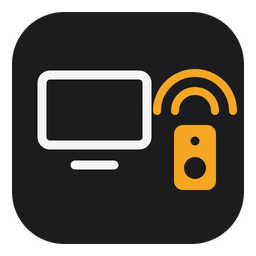
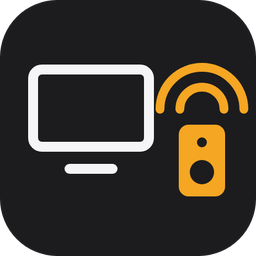
Prepare for the HACS default store (#3)
- Add integration categories to the manifest (HACS warning)
- Trim the empty margin from the brand icons, per Home Assistant's
  brand image guidelines
- Drop the obsolete render_readme key from hacs.json
- Run validation daily, as the HACS action docs suggest
- README: badges, my.home-assistant.io buttons to open the repository
  in HACS and to start the setup
- Issue templates for bug reports and feature requests

Claude-Session: https://claude.ai/code/session_01AuxZxAMfiAdUMG3TA64r37

diff --git a/README.md b/README.md
@@ -1,6 +1,9 @@
 # Apple TV Audio Output
 
-[![hacs_badge](https://img.shields.io/badge/HACS-Custom-41BDF5.svg)](https://github.com/hacs/integration)
+[![HACS](https://img.shields.io/badge/HACS-Custom-41BDF5.svg)](https://hacs.xyz)
+[![Release](https://img.shields.io/github/v/release/Emilhaurum/ha-apple-tv-output)](https://github.com/Emilhaurum/ha-apple-tv-output/releases)
+[![Validate](https://github.com/Emilhaurum/ha-apple-tv-output/actions/workflows/validate.yml/badge.svg)](https://github.com/Emilhaurum/ha-apple-tv-output/actions/workflows/validate.yml)
+[![License](https://img.shields.io/github/license/Emilhaurum/ha-apple-tv-output)](LICENSE)
 
 A Home Assistant integration that sends an Apple TV's sound to AirPlay 2 speakers. It is tested with
 an Apple TV 4K and Sonos speakers on Home Assistant 2026.11.
@@ -23,9 +26,12 @@ an automation can pick the speaker every time the Apple TV wakes up.
 
 ### HACS
 
-1. In HACS, open the menu and choose **Custom repositories**.
-2. Add `https://github.com/Emilhaurum/ha-apple-tv-output` with the type **Integration**.
-3. Install **Apple TV Audio Output** and restart Home Assistant.
+[![Open your Home Assistant instance and open this repository in HACS.](https://my.home-assistant.io/badges/hacs_repository.svg)](https://my.home-assistant.io/redirect/hacs_repository/?owner=Emilhaurum&repository=ha-apple-tv-output&category=integration)
+
+1. Select the button above to open the repository in HACS, or search for **Apple TV Audio Output**
+   in HACS. If HACS does not find it, open the menu, choose **Custom repositories**, and add
+   `https://github.com/Emilhaurum/ha-apple-tv-output` with the type **Integration**.
+2. Select **Download**, and restart Home Assistant.
 
 ### Manual
 
@@ -34,8 +40,13 @@ configuration and restart Home Assistant.
 
 ### Set up
 
-Go to **Settings → Devices & services → Add integration** and add **Apple TV Audio Output**. There
-is nothing to configure; adding it makes the actions available.
+[![Open your Home Assistant instance and start setting up a new integration.](https://my.home-assistant.io/badges/config_flow_start.svg)](https://my.home-assistant.io/redirect/config_flow_start/?domain=apple_tv_output)
+
+Select the button above, or go to **Settings → Devices & services → Add integration** and add
+**Apple TV Audio Output**. There is nothing to configure; adding it makes the actions available.
+
+The integration's icon shows in Home Assistant 2026.3 and newer, which can show icons that come with
+a custom integration.
 
 ## Actions
 

diff --git a/CHANGELOG.md b/CHANGELOG.md
@@ -32,6 +32,8 @@
 - Tests, linting and type checking, run in CI against the oldest supported and the newest Home
   Assistant release.
 - A release workflow and Dependabot updates for the GitHub Actions.
+- Ready for the HACS default store: integration categories, a trimmed icon, buttons that open the
+  repository in HACS and start the setup, and issue templates.
 
 ## [1.0.0]
 
